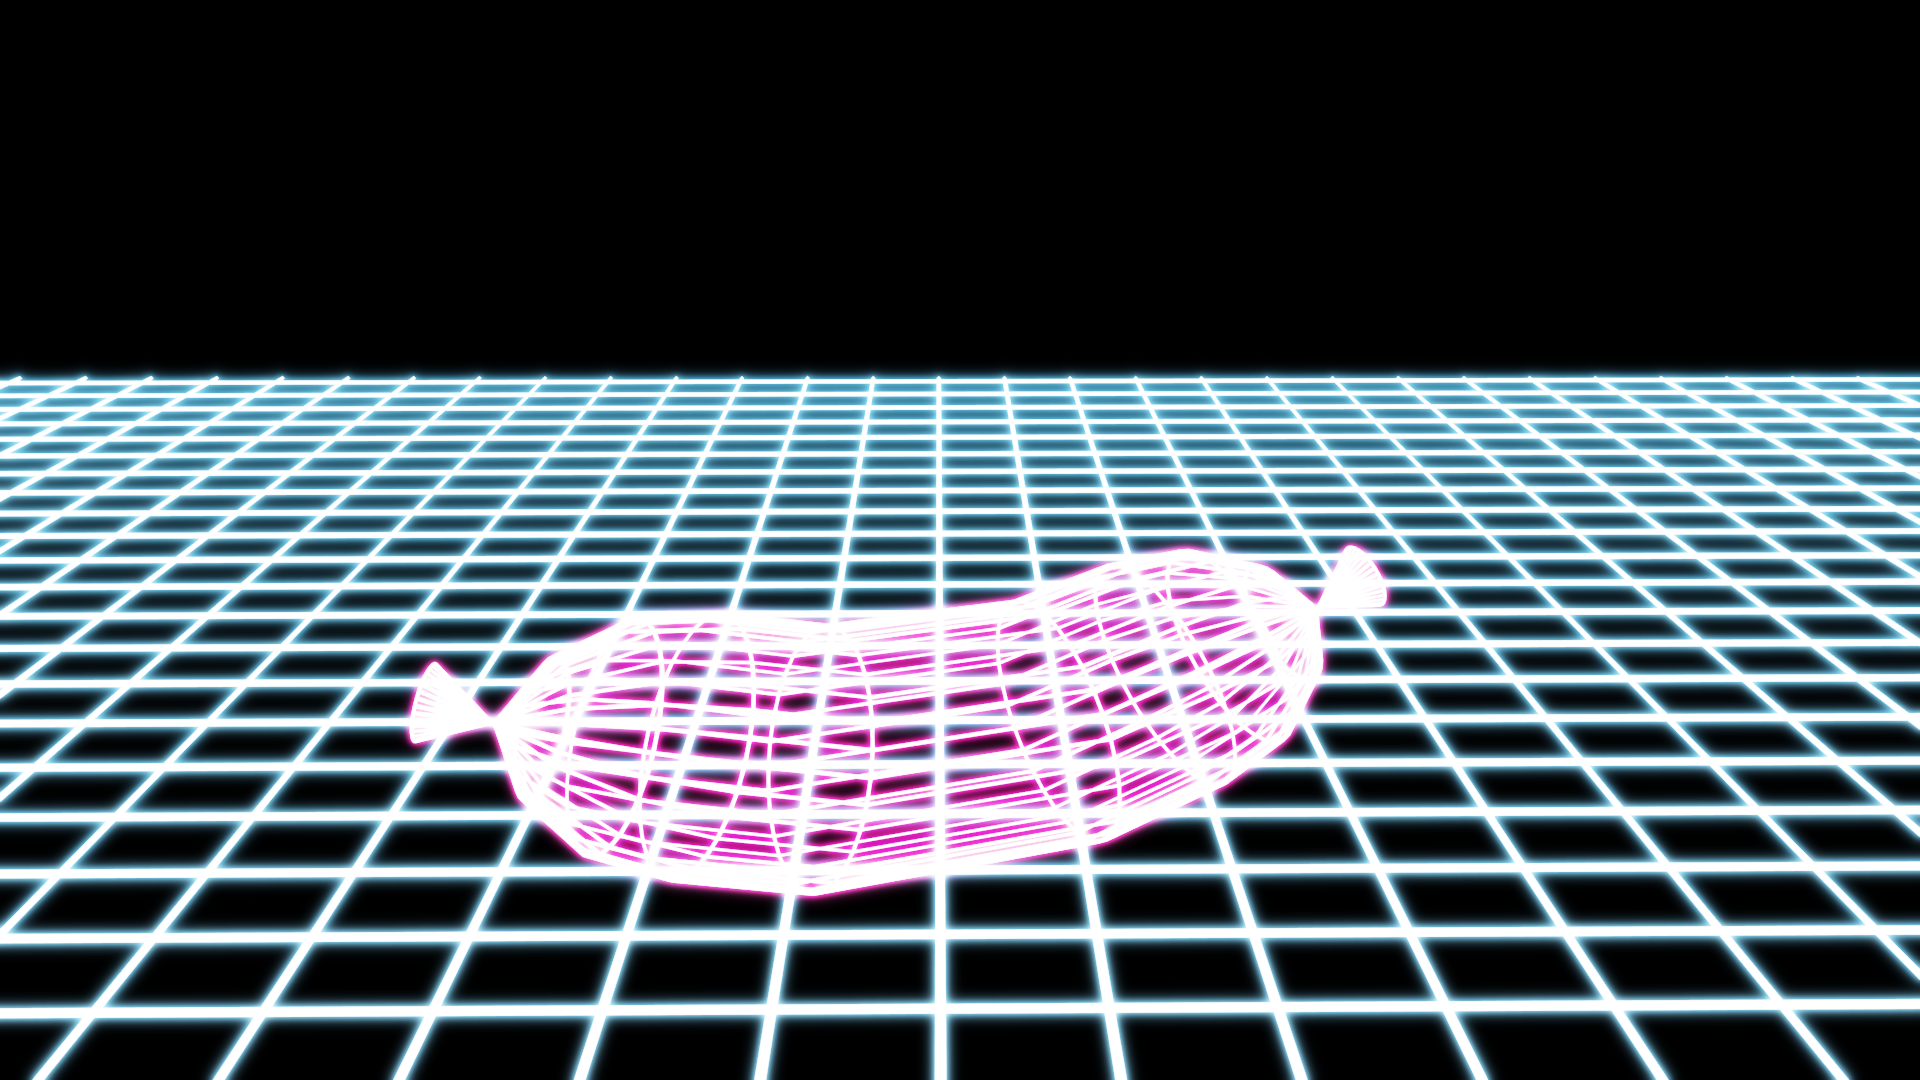
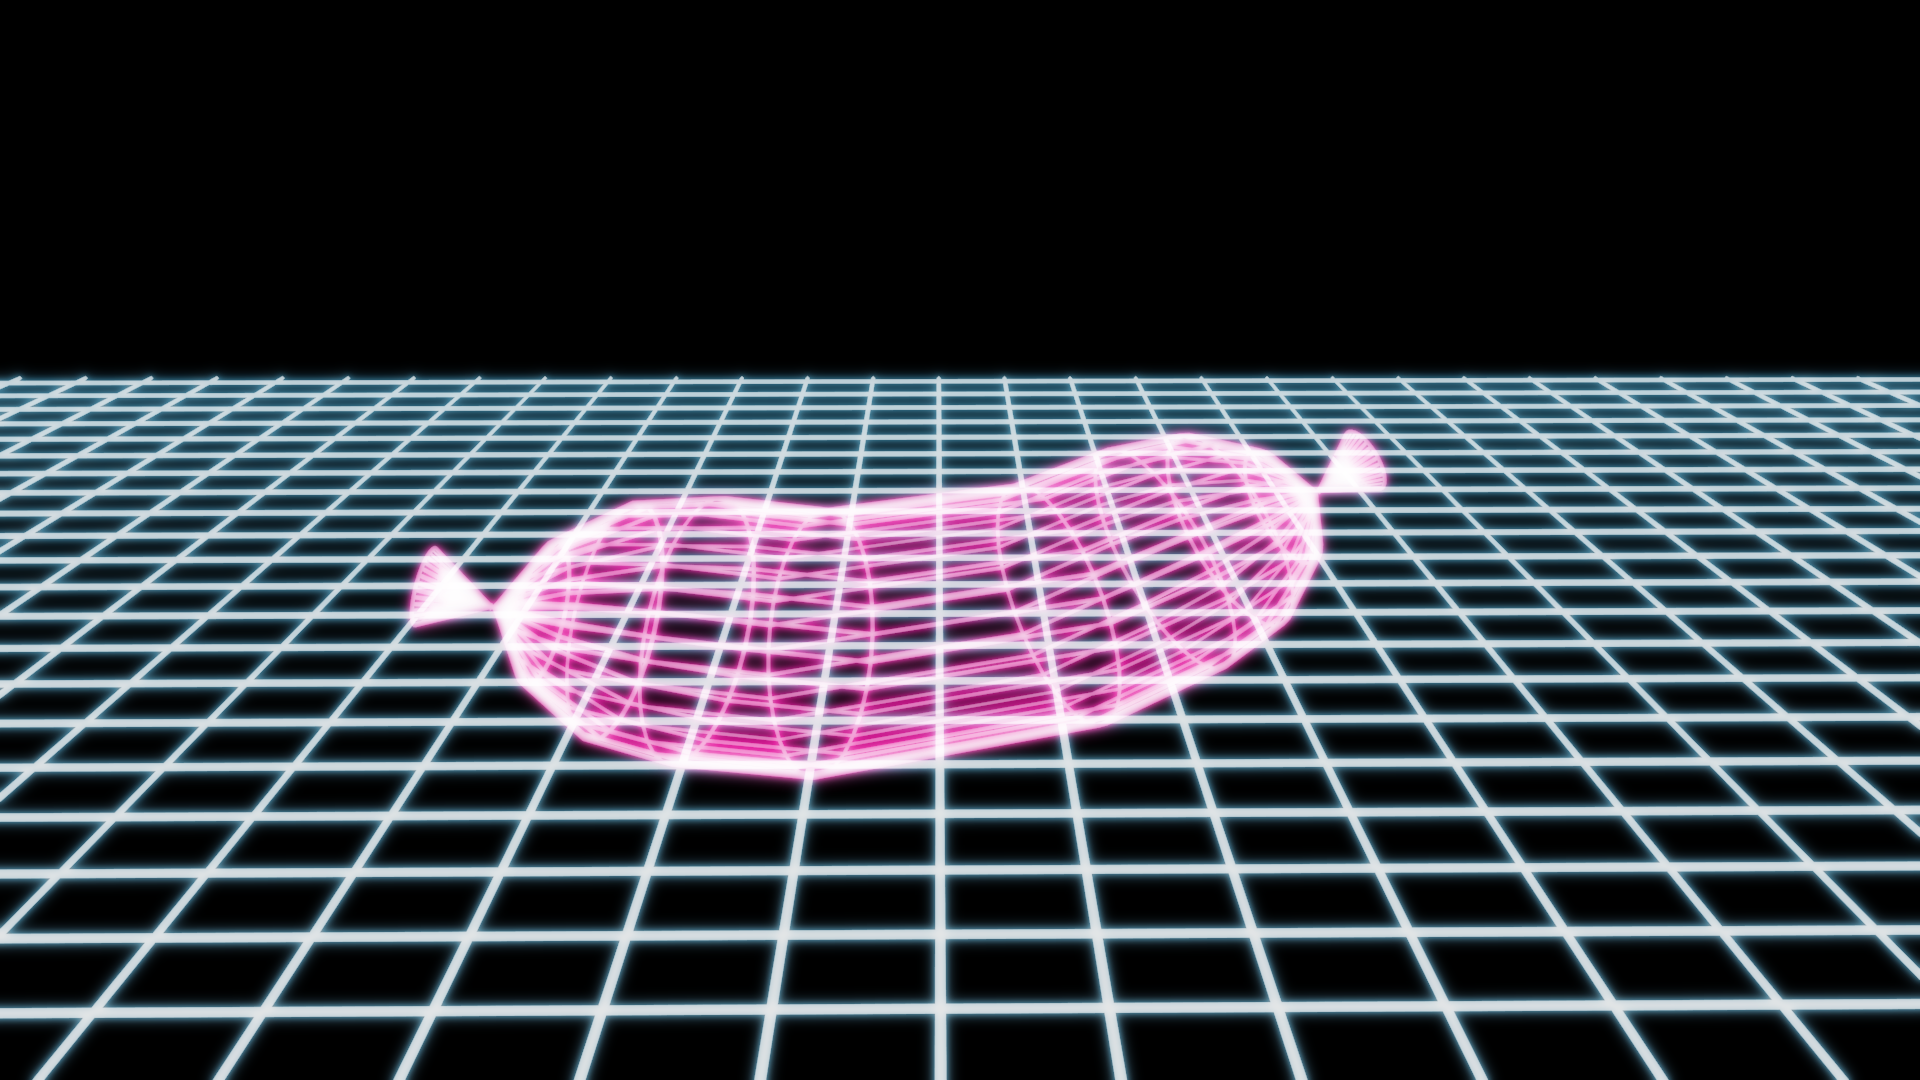
Modified background image a little and added animation to it

diff --git a/public/stylesheets/style.css b/public/stylesheets/style.css
@@ -1,3 +1,8 @@
+@keyframes example {
+	0% {background-size: 110%;}
+	100% {background-size: 100%;}
+}
+
 body {
 	padding: 0px;
 	margin: 0px;
@@ -6,8 +11,13 @@ body {
 	background-color: black;
 	background-image: url('/images/makkara.png');
 	background-repeat: no-repeat;
-	background-size: auto, 100%;
 	background-position: center top;
+	background-size: 100%;
+	animation: example;
+	animation-duration: 2s;
+	animation-iteration-count: infinite;
+	animation-timing-function: ease-in-out;
+	animation-direction: alternate;
 }
 
 a {
